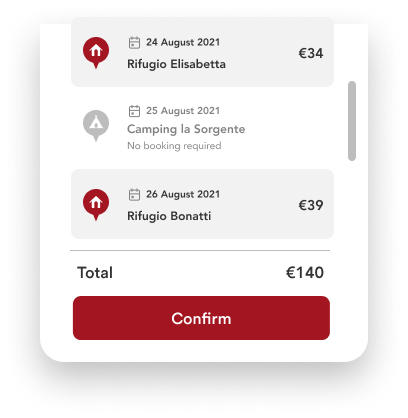
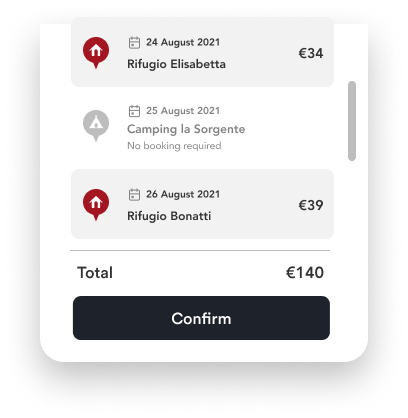
padding for step2 image for mobile fit

Changed region(s): [[0.1765, 0.6842, 0.8235, 0.8397]]

diff --git a/assets/stylesheets/components/step.css b/assets/stylesheets/components/step.css
@@ -48,7 +48,9 @@
 
 .btn-outlined {
   padding: 8px 12px;
-  border: 2px solid #333333;
+  background: #A31621;
+  color: white;
+  border: 2px solid #A31621;
   border-radius: 8px;
   font-weight: bold;
   text-decoration: none;
@@ -59,9 +61,7 @@
 }
 
 .btn-outlined:hover {
-  background: #A31621;
-  border: 2px solid #A31621;
-  color: white;
+  opacity: 0.7;
 }
 
 /*.hideme
